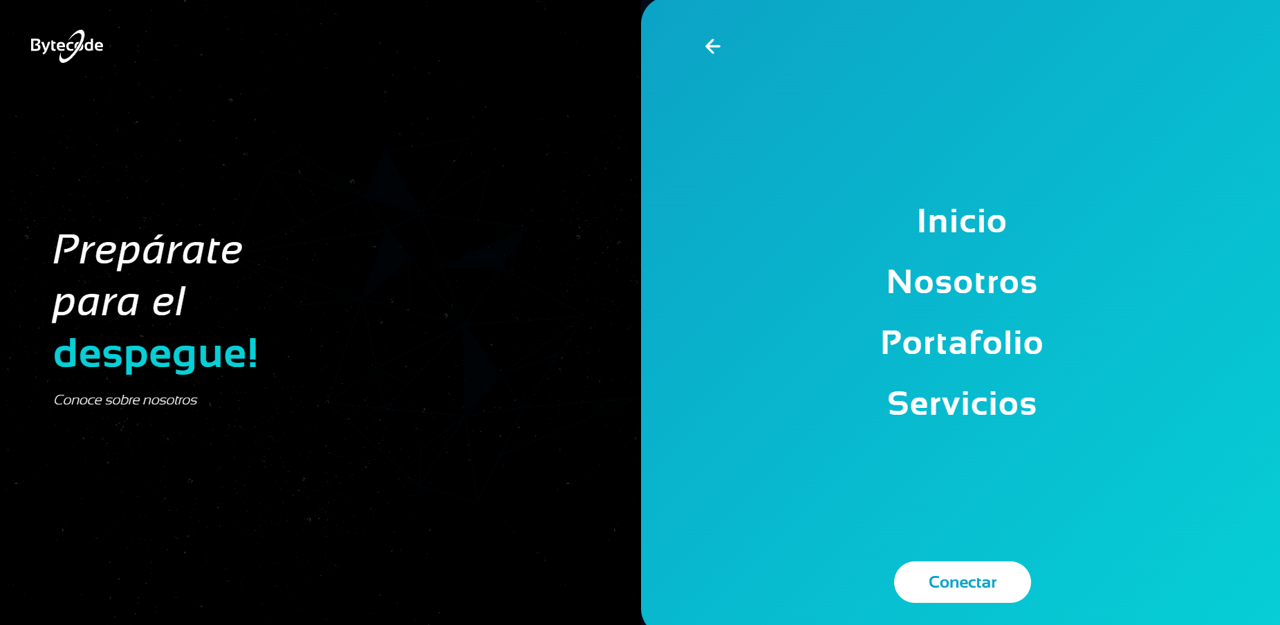
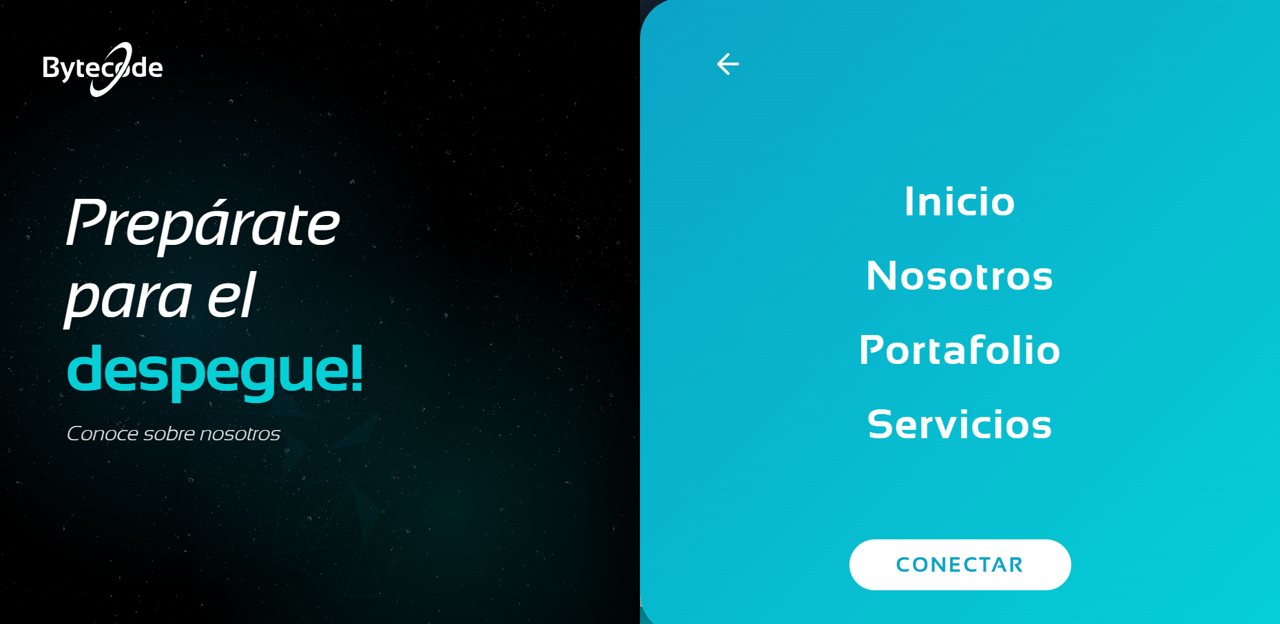
Version final - Menu interactivo

diff --git a/src/components/MobileMenuView.tsx b/src/components/MobileMenuView.tsx
@@ -1,4 +1,4 @@
-import React from 'react';
+import React, { useEffect } from 'react';
 import { motion, AnimatePresence } from 'framer-motion';
 import { useNavigate } from 'react-router-dom';
 import { ArrowLeft } from 'lucide-react';
@@ -18,6 +18,17 @@ const navLinks = [
 const MobileMenuView: React.FC<MobileMenuViewProps> = ({ isOpen, onClose }) => {
   const navigate = useNavigate();
 
+  useEffect(() => {
+    if (isOpen) {
+      document.body.style.overflow = 'hidden';
+    } else {
+      document.body.style.overflow = 'unset';
+    }
+    return () => {
+      document.body.style.overflow = 'unset';
+    };
+  }, [isOpen]);
+
   const handleNavClick = (path: string) => {
     onClose();
     navigate(path);
@@ -31,57 +42,60 @@ const MobileMenuView: React.FC<MobileMenuViewProps> = ({ isOpen, onClose }) => {
           animate={{ opacity: 1 }}
           exit={{ opacity: 0 }}
           transition={{ duration: 0.3 }}
-          className="fixed inset-0 z-[100] flex flex-col md:flex-row w-full h-full font-sansation overflow-hidden"
+          className="fixed inset-0 z-[100] flex flex-col md:flex-row w-full h-full font-sansation overflow-hidden select-none"
         >
+          {/* Fondo Global de Estrellas */}
+          <div className="absolute inset-0 z-0 bg-black">
+            <div className="absolute inset-0 bg-[radial-gradient(circle_at_30%_50%,_rgba(12,163,198,0.25)_0%,_transparent_50%)]" />
+            <div className="absolute inset-0 bg-[radial-gradient(circle_at_70%_80%,_rgba(6,207,214,0.2)_0%,_transparent_40%)]" />
+            <div className="absolute inset-0 opacity-70 bg-[url('https://www.transparenttextures.com/patterns/stardust.png')] mix-blend-screen" />
+            <div className="absolute inset-0 opacity-50 bg-[url('https://www.transparenttextures.com/patterns/stardust.png')] rotate-180 mix-blend-screen" />
+          </div>
+
           {/* Lado Izquierdo: Espacio / Logo / Gráfico */}
           <motion.div
             initial={{ x: '-100%' }}
             animate={{ x: 0 }}
             exit={{ x: '-100%' }}
             transition={{ type: 'spring', damping: 25, stiffness: 120, duration: 0.6 }}
-            className="relative w-full md:w-1/2 h-1/2 md:h-full bg-black overflow-hidden flex flex-col justify-center px-10 md:px-24 z-10"
+            className="relative w-full md:w-1/2 h-1/2 md:h-full overflow-hidden flex flex-col justify-center px-10 md:pl-32 md:pr-10 z-10"
           >
-            {/* Fondo de Estrellas Vibrante */}
-            <div className="absolute inset-0 z-0 bg-black" />
-            <div className="absolute inset-0 z-0 bg-[radial-gradient(circle_at_30%_50%,_rgba(12,163,198,0.2)_0%,_transparent_50%)]" />
-            <div className="absolute inset-0 z-0 bg-[radial-gradient(circle_at_70%_80%,_rgba(6,207,214,0.15)_0%,_transparent_40%)]" />
-            {/* Simulation of vibrant stars */}
-            <div className="absolute inset-0 opacity-60 bg-[url('https://www.transparenttextures.com/patterns/stardust.png')] mix-blend-screen" />
-            <div className="absolute inset-0 opacity-40 bg-[url('https://www.transparenttextures.com/patterns/stardust.png')] rotate-180 mix-blend-screen" />
-
-            {/* Logo - Corrección 5: Aumentar escala */}
-            <div className="absolute top-10 left-10 md:top-16 md:left-16 z-20">
+            {/* Logo */}
+            <button 
+              onClick={() => handleNavClick('/')}
+              className="absolute top-10 left-10 md:top-16 md:left-24 z-20 transition-transform duration-300 hover:scale-105 active:scale-95 outline-none"
+              aria-label="Ir a inicio"
+            >
               <img 
                 src="/src/desings/logo_en_blanco.svg" 
                 alt="Bytecode Logo" 
-                className="h-14 md:h-20 w-auto object-contain" 
+                className="h-15 md:h-22 w-auto object-contain pointer-events-none" 
               />
-            </div>
-
-            {/* Texto Central - Corrección 1: Agrandar significativamente */}
-            <div className="z-20 mt-20 md:mt-0">
-              <h2 className="text-white text-6xl md:text-8xl font-normal leading-[1.1] tracking-tight">
-                Prepárate<br />
-                para el<br />
-                <span className="text-[#06CFD6] font-bold">despegue!</span>
+            </button>
+            
+            {/* Texto Central */}
+            <div className="z-20 -mt-12 md:-mt-20 md:ml-24"> 
+              <h2 className="text-white text-6xl md:text-8xl font-normal leading-[1.05] tracking-tight inline-block" style={{ fontStyle: 'normal', transform: 'skewX(0deg)', display: 'inline-block' }}>
+                <span style={{ display: 'block', transform: 'skewX(+11deg)' }}>Prepárate</span>
+                <span style={{ display: 'block', transform: 'skewX(+11deg)' }}>para el</span>
+                <span className="text-[#06CFD6] font-bold" style={{ display: 'block', transform: 'skewX(+0deg)' }}>despegue!</span>
               </h2>
-              <p className="text-white mt-6 text-2xl md:text-3xl font-light italic opacity-90">
+              <p className="text-white mt-8 text-2xl md:text-4xl font-light italic opacity-95">
                 Conoce sobre nosotros
               </p>
             </div>
 
-            {/* Gráfico Geométrico - Corrección 3: Reubicar y rotar al borde inferior */}
+            {/* Gráfico Geométrico */}
             <motion.div 
-              className="absolute bottom-0 left-0 w-full z-0 pointer-events-none origin-bottom-left"
-              initial={{ opacity: 0 }}
-              animate={{ opacity: 1 }}
-              transition={{ delay: 0.5 }}
-              whileHover={{ scale: 1.02 }}
+              className="absolute bottom-0 left-1/2 -translate-x-1/2 w-[85%] z-0 pointer-events-none"
+              initial={{ opacity: 0, y: 50 }}
+              animate={{ opacity: 1, y: 0 }}
+              transition={{ delay: 0.5, duration: 0.8 }}
             >
               <img 
-                src="/src/desings/elemento.svg" 
-                alt="Elemento Decorativo" 
-                className="w-full h-auto object-contain opacity-20 mix-blend-screen transform translate-y-1/4"
+                src="/src/desings/elemento_inferior_menu_interactivo.svg" 
+                alt="Elemento Decorativo Inferior" 
+                className="w-full h-auto object-contain opacity-100 mix-blend-screen transform translate-y-1/4"
                 style={{ 
                   filter: 'brightness(0) saturate(100%) invert(32%) sepia(85%) saturate(1914%) hue-rotate(174deg) brightness(98%) contrast(98%)' 
                 }}
@@ -89,60 +103,62 @@ const MobileMenuView: React.FC<MobileMenuViewProps> = ({ isOpen, onClose }) => {
             </motion.div>
           </motion.div>
 
-          {/* Lado Derecho: Panel Cyan / Menú - Corrección 4: Entrada lateral derecha */}
+          {/* Lado Derecho: Panel Cyan / Menú */}
           <motion.div
             initial={{ x: '100%' }}
             animate={{ x: 0 }}
             exit={{ x: '100%' }}
             transition={{ type: 'spring', damping: 25, stiffness: 120, duration: 0.6 }}
-            className="relative w-full md:w-1/2 h-1/2 md:h-full bg-gradient-to-br from-[#0CA3C6] to-[#06CFD6] md:rounded-l-[60px] flex flex-col justify-between py-10 px-10 md:py-16 md:px-24 z-20 shadow-[-40px_0_60px_rgba(0,0,0,0.5)]"
+            className="relative w-full md:w-1/2 h-1/2 md:h-full bg-gradient-to-br from-[#0CA3C6] to-[#06CFD6] md:rounded-l-[80px] flex flex-col py-10 px-10 md:py-20 md:px-24 z-20 shadow-[-40px_0_80px_rgba(0,0,0,0.6)]"
           >
             
             {/* Flecha de Retorno */}
             <button 
               onClick={onClose}
-              className="text-white hover:scale-110 hover:-translate-x-2 transition-all duration-300 self-start p-2 group"
+              className="absolute top-10 left-10 md:top-20 md:left-24 text-white hover:scale-110 hover:-translate-x-2 transition-all duration-300 p-2 group z-30"
               aria-label="Cerrar menú"
             >
-              <ArrowLeft size={48} strokeWidth={2} className="group-hover:rotate-12 transition-transform" />
+              <ArrowLeft size={50} strokeWidth={2.5} className="group-hover:rotate-12 transition-transform" />
             </button>
 
-            {/* Enlaces del Menú */}
-            <nav className="flex flex-col items-center justify-center gap-8 md:gap-12 flex-1">
-              {navLinks.map((link, i) => (
-                <motion.div
-                  key={link.name}
-                  initial={{ opacity: 0, x: 50 }}
-                  animate={{ opacity: 1, x: 0 }}
-                  transition={{ delay: 0.4 + i * 0.1, duration: 0.5 }}
-                  className="group relative"
-                >
-                  <button
-                    onClick={() => handleNavClick(link.path)}
-                    className="text-white text-4xl md:text-6xl font-bold tracking-wider group-hover:text-[#060c1d] group-hover:scale-110 transition-all duration-300 inline-block"
+            {/* Contenedor Central: Nav + Botón */}
+            <div className="flex-1 flex flex-col items-center justify-center gap-12 md:gap-16"> 
+              {/* Enlaces del Menú - */}
+              <nav className="flex flex-col items-center min-h-[350px] md:min-h-[420px] justify-between"> 
+                {navLinks.map((link, i) => (
+                  <motion.div
+                    key={link.name}
+                    initial={{ opacity: 0, x: 50 }}
+                    animate={{ opacity: 1, x: 0 }}
+                    transition={{ delay: 0.4 + i * 0.1, duration: 0.5 }}
+                    className="group relative"
                   >
-                    {link.name}
-                  </button>
-                  {/* Animación de subrayado tecnológico */}
-                  <span className="absolute -bottom-2 left-1/2 w-0 h-1.5 bg-[#060c1d] group-hover:w-full group-hover:left-0 transition-all duration-300 ease-out shadow-[0_0_10px_rgba(6,12,29,0.3)]" />
-                </motion.div>
-              ))}
-            </nav>
+                    <button
+                      onClick={() => handleNavClick(link.path)}
+                      className="text-white text-4xl md:text-5xl font-bold tracking-wider group-hover:text-[#060c1d] group-hover:scale-110 transition-all duration-300 inline-block"
+                    >
+                      {link.name}
+                    </button>
+                    <span className="absolute -bottom-3 left-1/2 w-0 h-2 bg-[#060c1d] group-hover:w-full group-hover:left-0 transition-all duration-300 ease-out shadow-[0_0_15px_rgba(6,12,29,0.4)]" />
+                  </motion.div>
+                ))}
+              </nav>
 
-            {/* Botón Conectar */}
-            <motion.div 
-              initial={{ opacity: 0, y: 30 }}
-              animate={{ opacity: 1, y: 0 }}
-              transition={{ delay: 0.8, duration: 0.5 }}
-              className="flex justify-center mt-6 md:mt-0"
-            >
-              <button 
-                onClick={() => handleNavClick('/contacto')}
-                className="bg-white text-[#0CA3C6] font-bold text-2xl md:text-3xl px-16 py-4 rounded-full hover:bg-transparent hover:text-white border-[3px] border-white hover:shadow-[0_0_30px_rgba(255,255,255,0.6)] active:scale-95 transition-all duration-300 ease-in-out uppercase tracking-widest"
+              {/* Botón Conectar */}
+              <motion.div 
+                initial={{ opacity: 0, y: 40 }}
+                animate={{ opacity: 1, y: 0 }}
+                transition={{ delay: 0.8, duration: 0.5 }}
+                className="mt-6 md:mt-10" 
               >
-                Conectar
-              </button>
-            </motion.div>
+                <button 
+                  onClick={() => handleNavClick('/contacto')}
+                  className="bg-white text-[#0CA3C6] font-extrabold text-2xl md:text-4xl px-20 py-5 rounded-full hover:bg-transparent hover:text-white border-[4px] border-white hover:shadow-[0_0_40px_rgba(255,255,255,0.7)] active:scale-95 transition-all duration-300 ease-in-out tracking-widest"
+                >
+                  Conectar
+                </button>
+              </motion.div>
+            </div>
           </motion.div>
         </motion.div>
       )}
